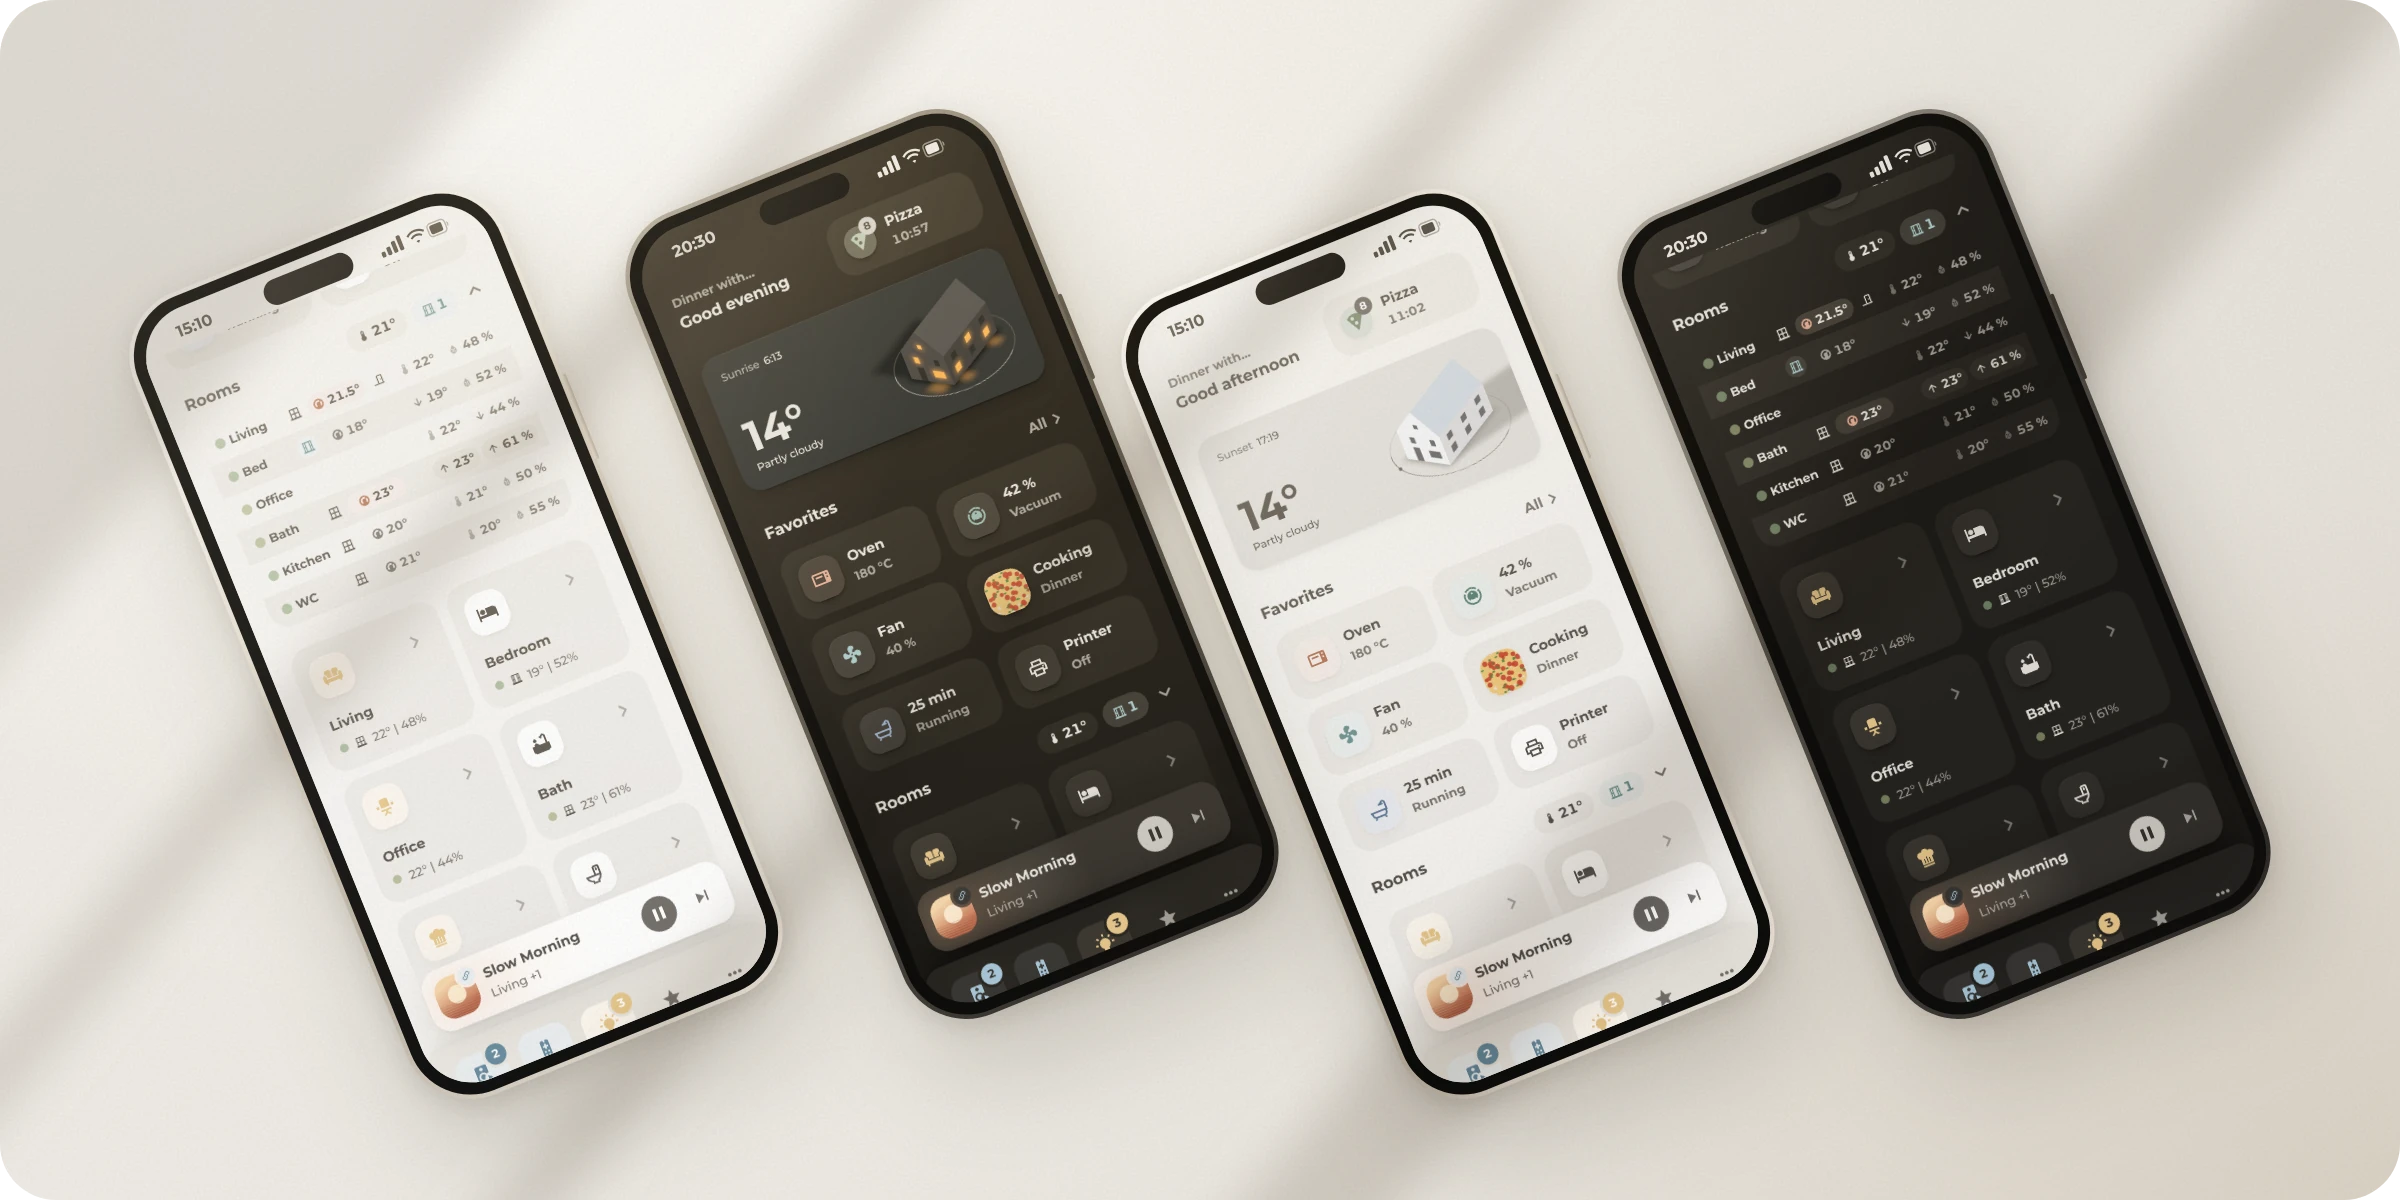
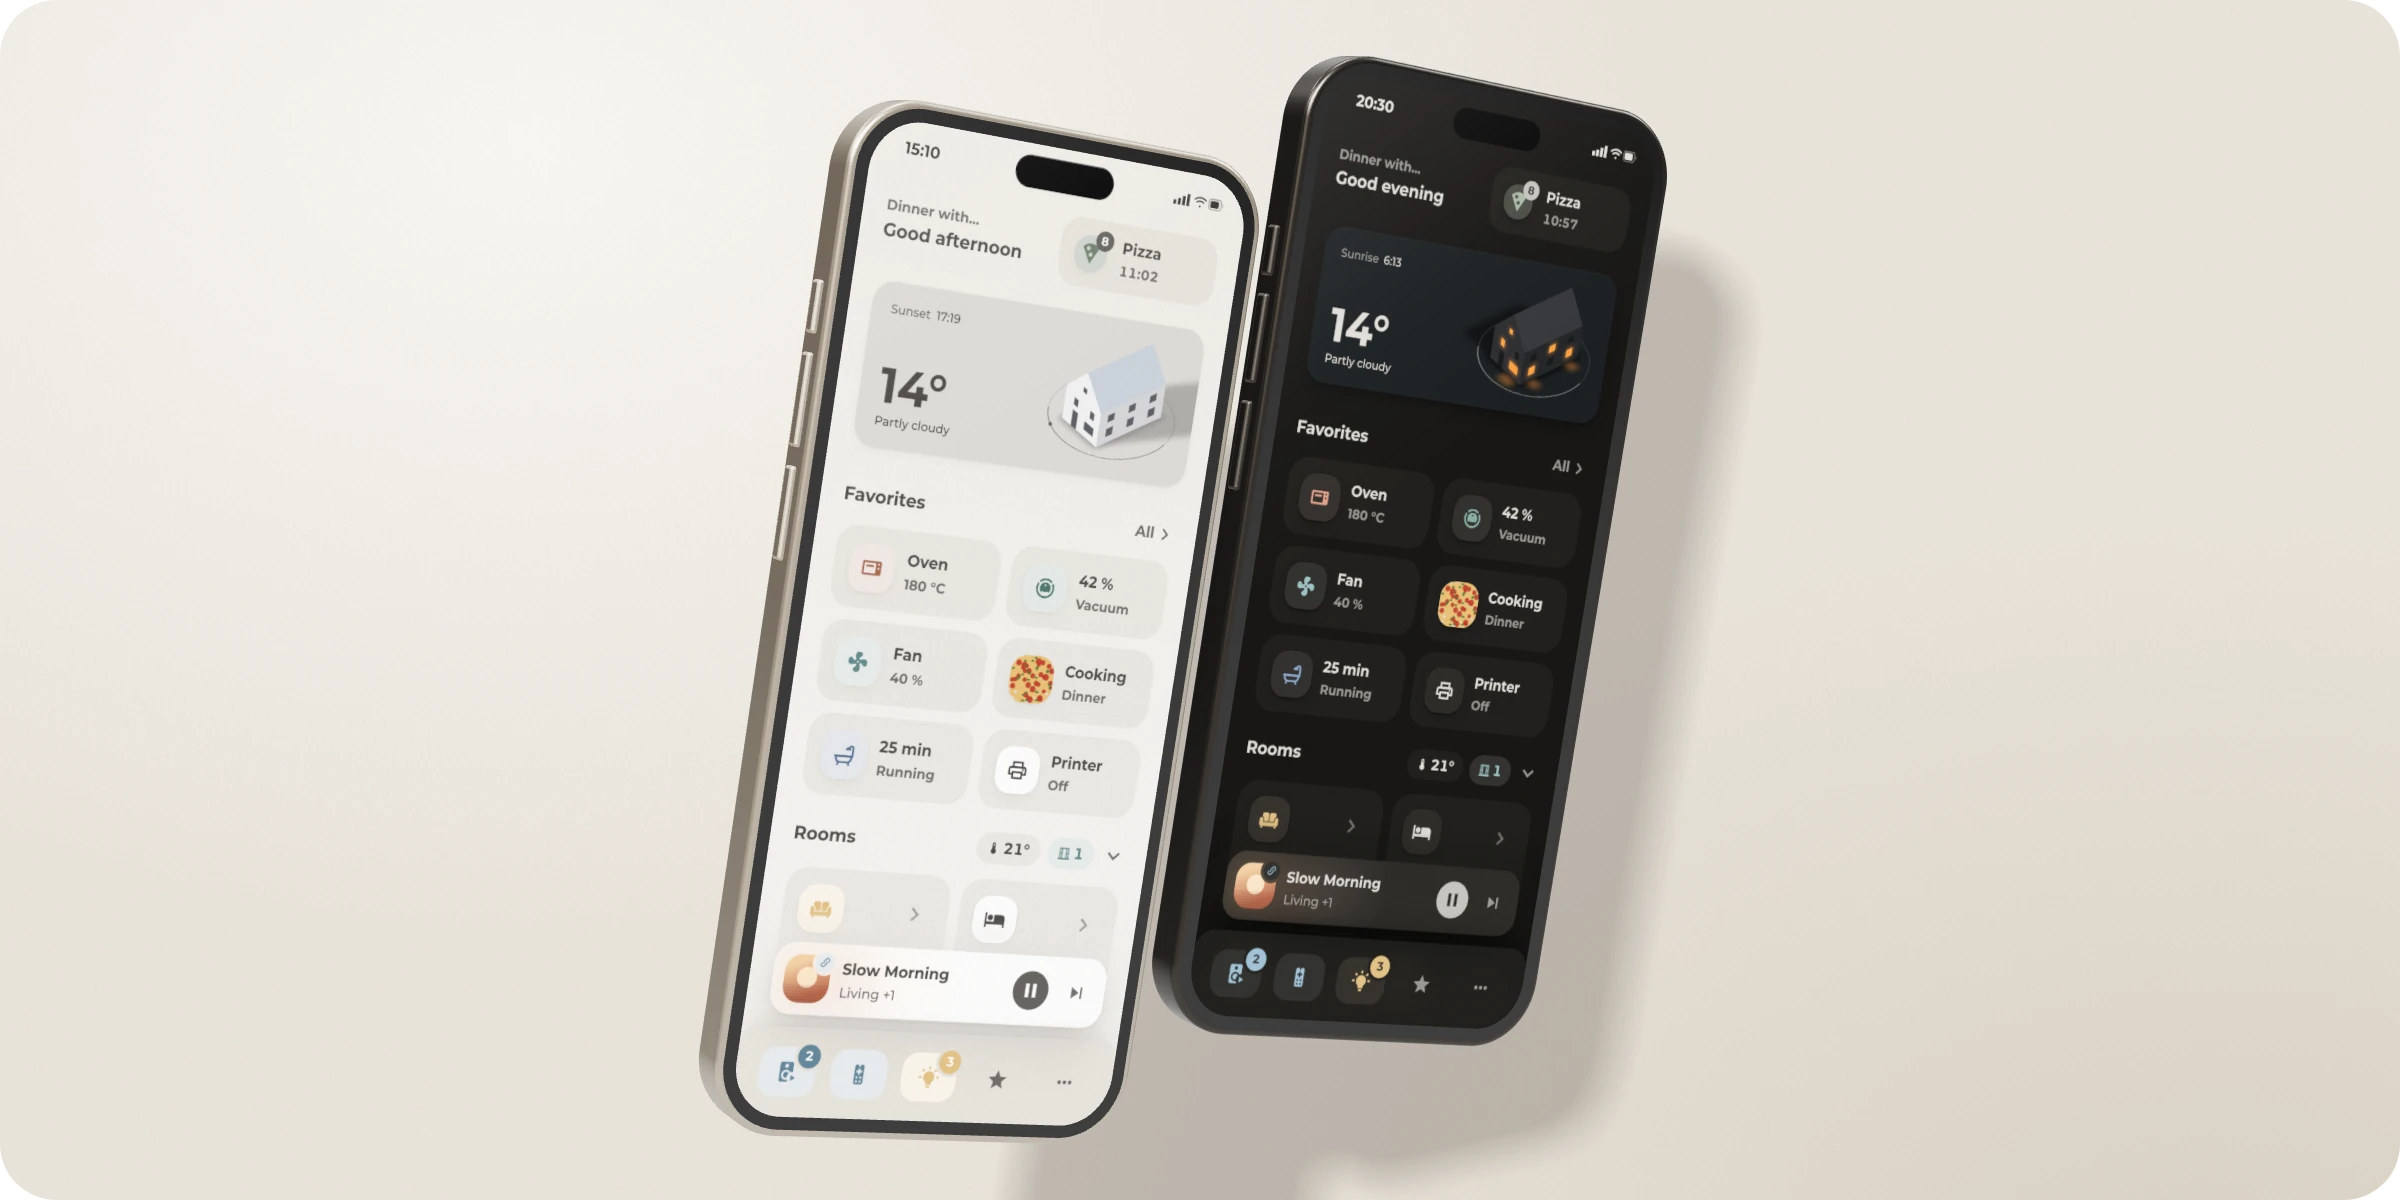
Two-phone header, changelog for 2.0, naming notes

diff --git a/CHANGELOG.md b/CHANGELOG.md
@@ -1,0 +1,45 @@
+# Changelog
+
+## 2.0 · The Unfolding
+
+<img alt="The Origami dashboard on two phones, one in light and one in dark mode" src="https://raw.githubusercontent.com/hazymorning/origami/main/images/hero.webp">
+
+1.0 was the theme and one very long README. 2.0 unfolds it into files you can use: the dashboard, its helpers, the font and Bubble Card modules, with a new README that walks through every part.
+
+### New
+
+- **Dashboard.** The phone dashboard in one file, [`dashboard/dashboard.yaml`](dashboard/dashboard.yaml): greeting and notifications, weather, favorites, rooms, a climate table and a navbar.
+- **Helpers.** The template sensors behind it as a package, [`packages/origami.yaml`](packages/origami.yaml): room climate, averages, counters, the greeting and the active speaker.
+- **Bubble Card modules.** Eleven modules that give Bubble Card the Origami look. Still experimental.
+- **Montserrat included.** The font ships in `www/fonts` and loads from your Home Assistant instead of Google's servers.
+- **New README.** Setup step by step, a screenshot of every part, and what each part uses.
+
+### Theme
+
+- New token set. Spacing and text sizes use Home Assistant's own names, like `ha-space-*` and `ha-font-size-*`.
+- Home Assistant's named colours, re-toned for light and dark. Colour sits in the icon, on a tint of the same colour.
+- Switches and anything else that is simply on are green instead of amber. Open windows are cyan.
+- Shadows and fills per mode, mixed from a warm base.
+
+### Breaking changes
+
+Some 1.0 tokens are gone. If your own cards use them, switch to these:
+
+| 1.0 | 2.0 |
+| --- | --- |
+| `border-radius`, `br-inner`, `br-circle` | `ha-card-border-radius`, `radius-inner`, `radius-circle` |
+| `br-pill` | `ha-border-radius-pill`, from Home Assistant |
+| `gap-xs`, `gap`, `gap-lg`, `section-gap` | `ha-space-1`, `ha-space-2`, `ha-space-3`, `ha-space-5` |
+| `card-padding-lg` | `ha-space-4` |
+| `font-weight-regular`, `font-weight-medium`, `font-weight-bold`, `font-weight-heavy` | `ha-font-weight-medium`, `ha-font-weight-bold` |
+| `font-size-title`, `font-size-display` | `ha-font-size-xl`, `ha-font-size-3xl` |
+| `text-color`, `card-background` | `primary-text-color`, `ha-card-background` |
+| `fill-accent-quiet` | `accent-color-background` |
+| `shadow-color` | `shadow-tint`, as an RGB triplet like `60, 50, 40` |
+| `rise-offset` | removed |
+
+### Upgrading
+
+1. Update Origami in HACS and reload themes.
+2. For the font, copy `www/fonts` to `/config/www/fonts` and add `/local/fonts/montserrat.css` as a **Stylesheet** resource.
+3. For the dashboard, follow [Setup](README.md#setup).

diff --git a/.claude/CLAUDE.md b/.claude/CLAUDE.md
@@ -1,0 +1,20 @@
+# Origami
+
+## Names
+
+Anything Claude names itself in this repo gets a small paper or origami reference. One or two words, never at the cost of clarity.
+
+- Branches Claude creates: `claude/<fold>-<topic>`, like `claude/valley-fold-readme` or `claude/crane-weather`.
+- Session titles: the same idea, like "Crease: README fixes".
+- Releases: `Origami <version> · <name>`. 2.0 is The Unfolding. Ideas for later ones: Valley Fold, Mountain Fold, Squash Fold, Petal Fold, Crane, Waterbomb, Kite Base, Washi.
+- Scratch files, demo dashboards and test entities can use the same words.
+
+Commit messages, PR titles and the README stay plain.
+
+## Writing
+
+- Short, plain sentences. No filler and no metaphors in the docs.
+- No AI attribution anywhere: no `Co-Authored-By` trailers, no "Generated with" footers in commits, PRs or comments.
+- Check every claim against the YAML before writing it. The entities are examples from one home, so say what is optional.
+- Screenshots come from a real Home Assistant with the real theme, font and cards.
+- README images use absolute `raw.githubusercontent.com/hazymorning/origami/main/...` URLs, because HACS doesn't rewrite relative ones.

diff --git a/README.md b/README.md
@@ -5,7 +5,7 @@
 
 A calm theme for Home Assistant, and the phone dashboard I built with it, mostly from [Paper Buttons Row](https://github.com/jcwillox/lovelace-paper-buttons-row) and [Bubble Card](https://github.com/Clooos/Bubble-Card). Plus Bubble Card modules in the same style.
 
-<img alt="Four phones with the Origami dashboard, in light and dark mode" src="https://raw.githubusercontent.com/hazymorning/origami/main/images/hero.webp">
+<img alt="The Origami dashboard on two phones, one in light and one in dark mode" src="https://raw.githubusercontent.com/hazymorning/origami/main/images/hero.webp">
 
 | | |
 | --- | --- |
